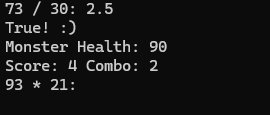
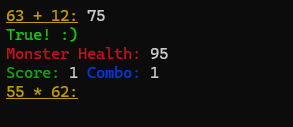
Add colored Terminal text
- Terminal outputs are displayed in 4 different colors

diff --git a/MathGame.py b/MathGame.py
@@ -8,13 +8,13 @@ def userinput(op):
     while True:
         if op == "/":
             try:
-                divisionreply = float(input(f"{num1} {op} {num2}: "))
+                divisionreply = float(input(f"\033[4;33m{num1} {op} {num2}:\033[0m "))
                 break
             except ValueError:
                 print("Just Enter Numbers!")
         else:
             try:
-                reply = int(input(f"{num1} {op} {num2}: "))
+                reply = int(input(f"\033[4;33m{num1} {op} {num2}:\033[0m "))
                 break
             except ValueError:
                 print("Just Enter Numbers!")
@@ -68,36 +68,36 @@ while True:
             score += 1
             combo += 1
             combos()
-            print("True! :)")
-            print(f"Monster Health: {monsterhealth}")
-            print(f"Score: {score} Combo: {combo}")
+            print("\033[1;32mTrue! :)\033[0m")
+            print(f"\33[31mMonster Health:\033[0m {monsterhealth}")
+            print(f"\033[32mScore:\033[0m {score} \033[34mCombo:\033[0m {combo}")
         else:
             monsterhealth += 10
             combo = 0
-            print("False! :(")
-            print(f"Monster Health: {monsterhealth}")
-            print(f"Score: {score} Combo: {combo}")
+            print("\033[1;31mFalse! :(\033[0m")
+            print(f"\33[31mMonster Health:\033[0m {monsterhealth}")
+            print(f"\033[32mScore:\033[0m {score} \033[31mCombo:\033[0m {combo}")
     else:
         if result == reply:
             monsterhealth -= 5
             score += 1
             combo += 1
             combos()
-            print("True! :)")
-            print(f"Monster Health: {monsterhealth}")
-            print(f"Score: {score} Combo: {combo}")
+            print("\033[1;32mTrue! :)\033[0m")
+            print(f"\33[31mMonster Health:\033[0m {monsterhealth}")
+            print(f"\033[32mScore:\033[0m {score} \033[34mCombo:\033[0m {combo}")
         else:
             monsterhealth += 10
             combo = 0
-            print("False! :(")
-            print(f"Monster Health: {monsterhealth}")
-            print(f"Score: {score} Combo: {combo}")
+            print("\033[1;31mFalse! :(\033[0m")
+            print(f"\33[31mMonster Health:\033[0m {monsterhealth}")
+            print(f"\033[32mScore:\033[0m {score} \033[31mCombo:\033[0m {combo}")
 
     # The game ends when the monster dies
     if monsterhealth == 0:
-        print("YOU WIN! :)")
+        print("\033[1;32;40mYOU WIN! :)\033[0m")
         combos()
-        print(f"Score: {score} Max Combo: {maxcombo}")
+        print(f"\033[32mScore:\033[0m {score} \033[34mMax Combo:\033[0m {maxcombo}")
         print("Thank you for playing!")
         time.sleep(5)
         break
